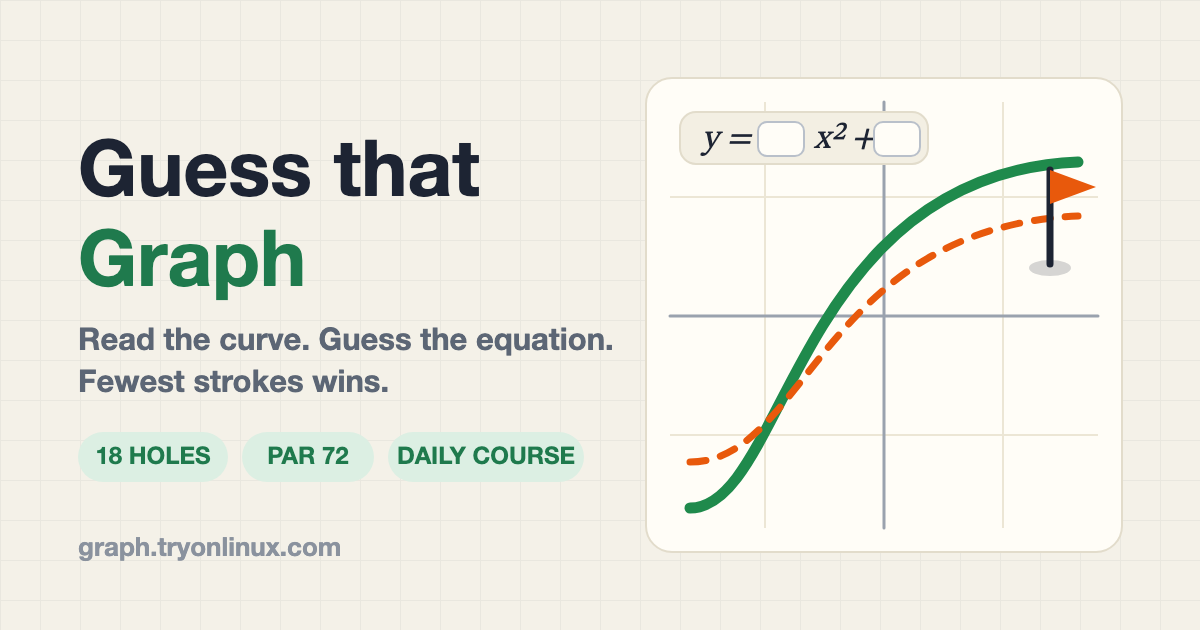
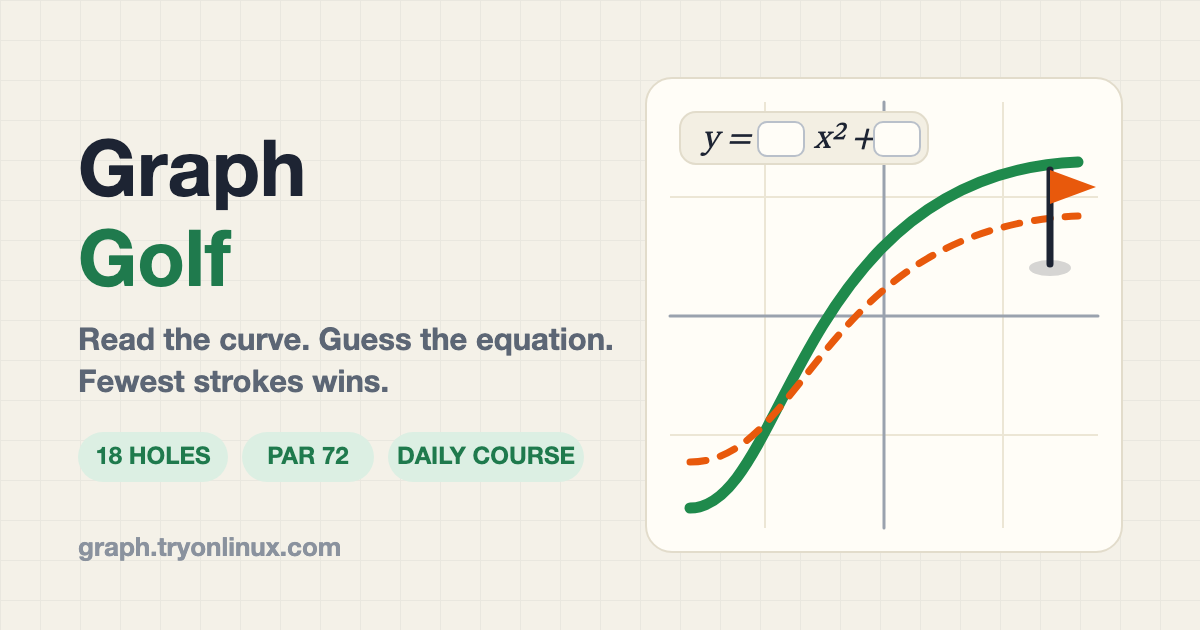
Rename the game to Graph Golf
Matches the repo, worker and graph.tryonlinux.com, which were already
golf-named while the page still said "Guess that Graph". Covers the
wordmark, page titles, Open Graph and Twitter tags, JSON-LD, the web
manifest, the shared result text, the 404 page and the social card.

Claude-Session: https://claude.ai/code/session_013i14JMw9HJVSahYmJ6yvYQ

Changed region(s): [[0.1233, 0.2111, 0.4008, 0.3317], [0.1233, 0.3619, 0.2775, 0.4825]]

diff --git a/public/index.html b/public/index.html
@@ -3,15 +3,15 @@
 <head>
   <meta charset="utf-8">
   <meta name="viewport" content="width=device-width, initial-scale=1, viewport-fit=cover">
-  <title>Guess that Graph — a daily curve-fitting golf puzzle</title>
+  <title>Graph Golf — a daily curve-fitting puzzle</title>
   <meta name="description" content="Read the mystery curve, guess the coefficients and exponents of its equation, and sink all 18 holes in as few strokes as you can. A new course every day.">
   <meta name="theme-color" content="#f4f1e8" media="(prefers-color-scheme: light)">
   <meta name="theme-color" content="#0f141a" media="(prefers-color-scheme: dark)">
   <link rel="canonical" href="https://graph.tryonlinux.com/">
 
   <meta property="og:type" content="website">
-  <meta property="og:site_name" content="Guess that Graph">
-  <meta property="og:title" content="Guess that Graph">
+  <meta property="og:site_name" content="Graph Golf">
+  <meta property="og:title" content="Graph Golf">
   <meta property="og:description" content="Read the curve, guess the equation, fewest strokes wins. 18 holes, par 72, a new course daily.">
   <meta property="og:url" content="https://graph.tryonlinux.com/">
   <meta property="og:image" content="https://graph.tryonlinux.com/og-image.png">
@@ -20,7 +20,7 @@
   <meta property="og:image:height" content="630">
   <meta property="og:image:alt" content="A graph with a green mystery curve and an orange guess beside a blanked-out equation">
   <meta name="twitter:card" content="summary_large_image">
-  <meta name="twitter:title" content="Guess that Graph">
+  <meta name="twitter:title" content="Graph Golf">
   <meta name="twitter:description" content="Read the curve, guess the equation, fewest strokes wins. 18 holes, par 72, a new course daily.">
   <meta name="twitter:image" content="https://graph.tryonlinux.com/og-image.png">
 
@@ -33,7 +33,7 @@
   {
     "@context": "https://schema.org",
     "@type": "VideoGame",
-    "name": "Guess that Graph",
+    "name": "Graph Golf",
     "url": "https://graph.tryonlinux.com/",
     "image": "https://graph.tryonlinux.com/og-image.png",
     "description": "A golf-style math puzzle. A mystery curve is plotted and its equation shown with the numbers blanked out; fill them in and match the curve in as few strokes as possible across 18 holes.",
@@ -50,9 +50,9 @@
 </head>
 <body>
   <header class="topbar">
-    <a class="brand" href="./" aria-label="Guess that Graph home">
+    <a class="brand" href="./" aria-label="Graph Golf home">
       <span class="brand-mark" aria-hidden="true">⛳</span>
-      <span>Guess that <b>Graph</b></span>
+      <span>Graph <b>Golf</b></span>
     </a>
     <nav class="topnav">
       <button class="btn ghost" data-open="help">How to play</button>
@@ -133,7 +133,7 @@
   </main>
 
   <footer class="foot">
-    <span>Guess that Graph</span> · <span id="footCourse"></span>
+    <span>Graph Golf</span> · <span id="footCourse"></span>
   </footer>
 
   <div class="toast" id="toast" role="status" aria-live="polite"></div>

diff --git a/public/404.html b/public/404.html
@@ -3,7 +3,7 @@
 <head>
   <meta charset="utf-8">
   <meta name="viewport" content="width=device-width, initial-scale=1, viewport-fit=cover">
-  <title>Out of bounds — Guess that Graph</title>
+  <title>Out of bounds — Graph Golf</title>
   <meta name="robots" content="noindex">
   <meta name="theme-color" content="#f4f1e8" media="(prefers-color-scheme: light)">
   <meta name="theme-color" content="#0f141a" media="(prefers-color-scheme: dark)">
@@ -12,9 +12,9 @@
 </head>
 <body>
   <header class="topbar">
-    <a class="brand" href="/" aria-label="Guess that Graph home">
+    <a class="brand" href="/" aria-label="Graph Golf home">
       <span class="brand-mark" aria-hidden="true">⛳</span>
-      <span>Guess that <b>Graph</b></span>
+      <span>Graph <b>Golf</b></span>
     </a>
   </header>
   <main class="wrap">

diff --git a/public/game.js b/public/game.js
@@ -1082,7 +1082,7 @@
 
   async function share() {
     const { strokes, toPar } = roundTotals();
-    const text = `Guess that Graph ⛳ ${courseLabel(course.id)}\n${strokes} strokes (${toParStr(toPar)})\n${emojiGrid()}\n${courseUrl(course.id)}`;
+    const text = `Graph Golf ⛳ ${courseLabel(course.id)}\n${strokes} strokes (${toParStr(toPar)})\n${emojiGrid()}\n${courseUrl(course.id)}`;
     if (navigator.share && matchMedia('(pointer: coarse)').matches) {
       try { await navigator.share({ text }); return; } catch { /* fall through to copy */ }
     }

diff --git a/README.md b/README.md
@@ -1,4 +1,4 @@
-# Guess that Graph ⛳
+# Graph Golf ⛳
 
 A golf-style math puzzle. A mystery curve is drawn at the top of the screen and its
 equation sits below it with the numbers blanked out. Fill in the coefficients and
